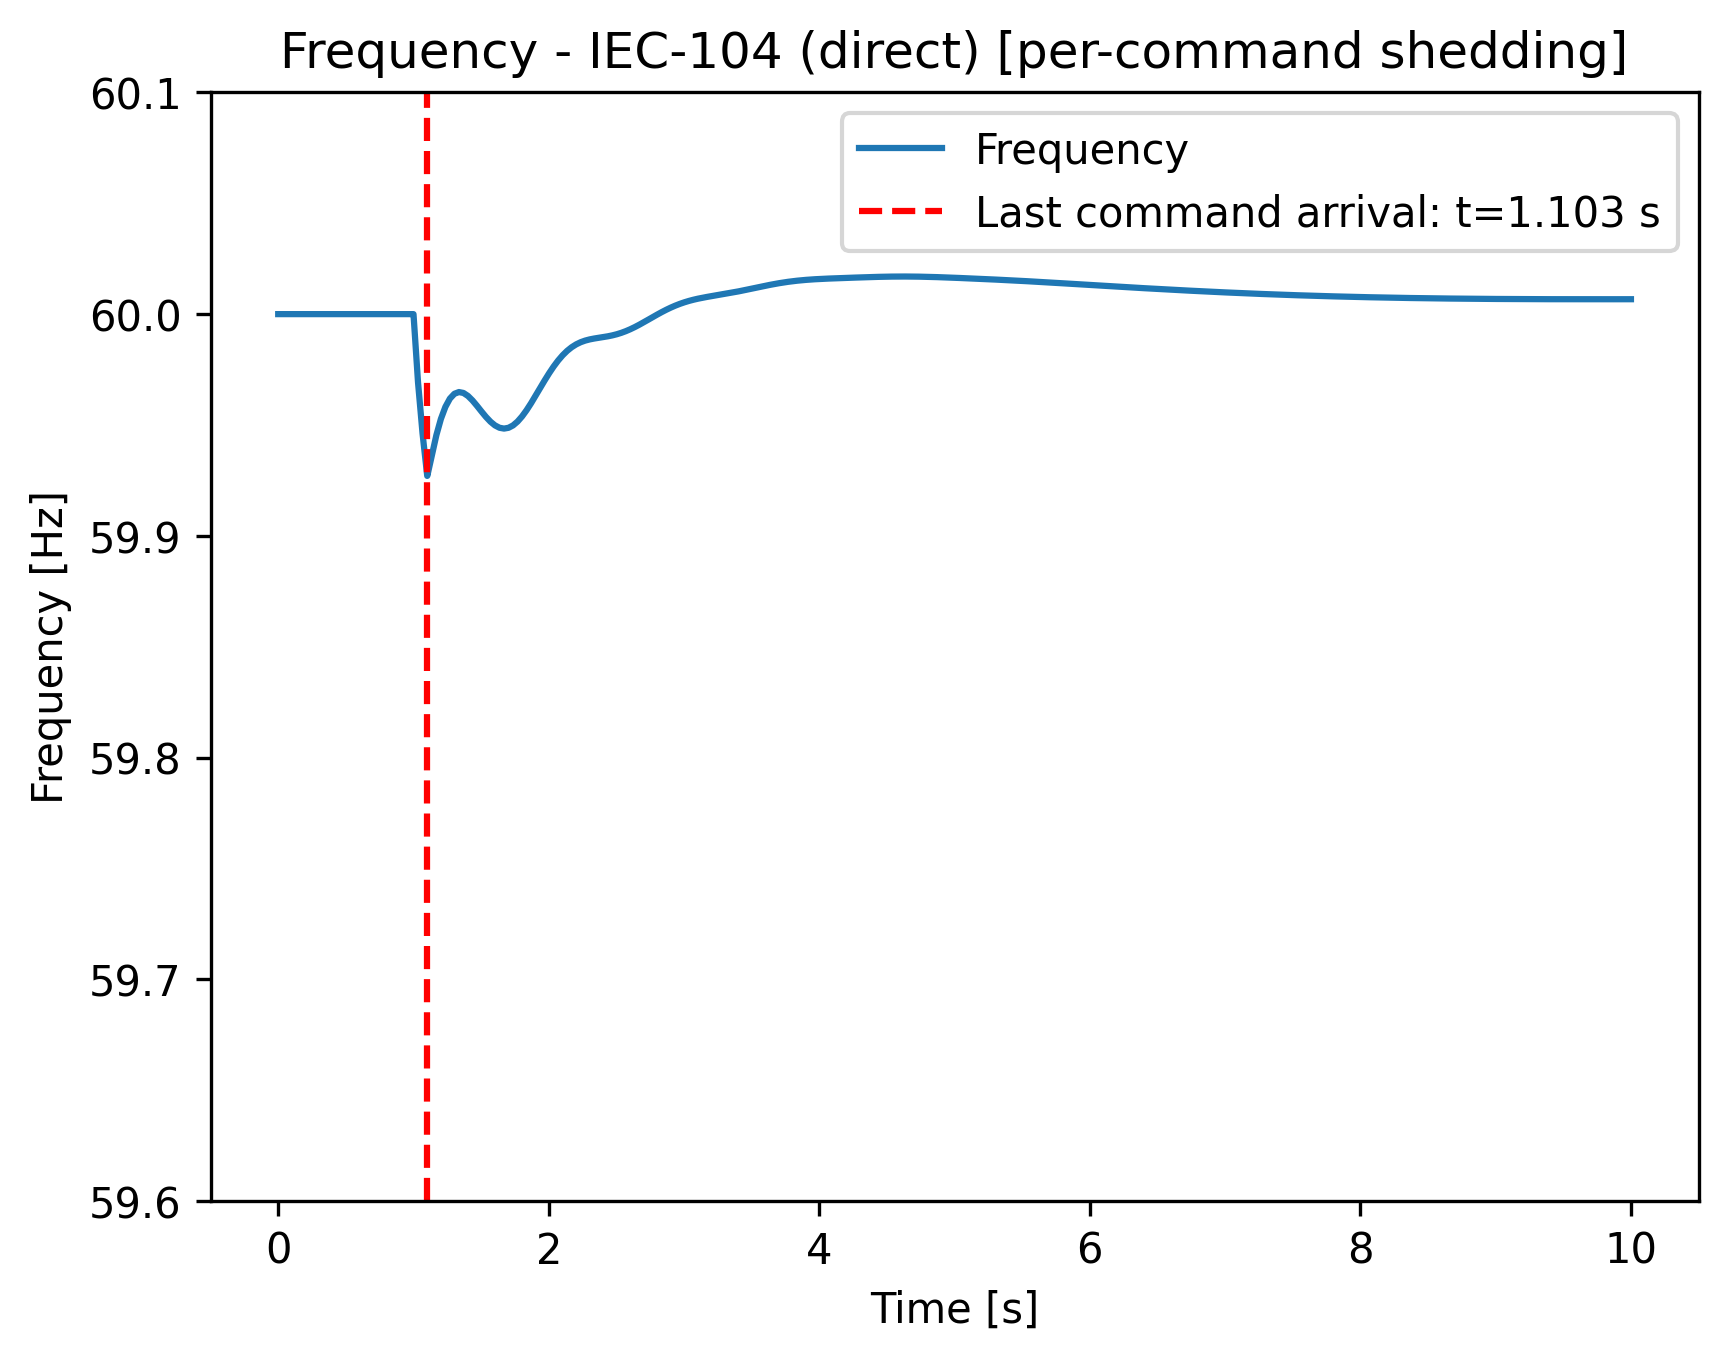
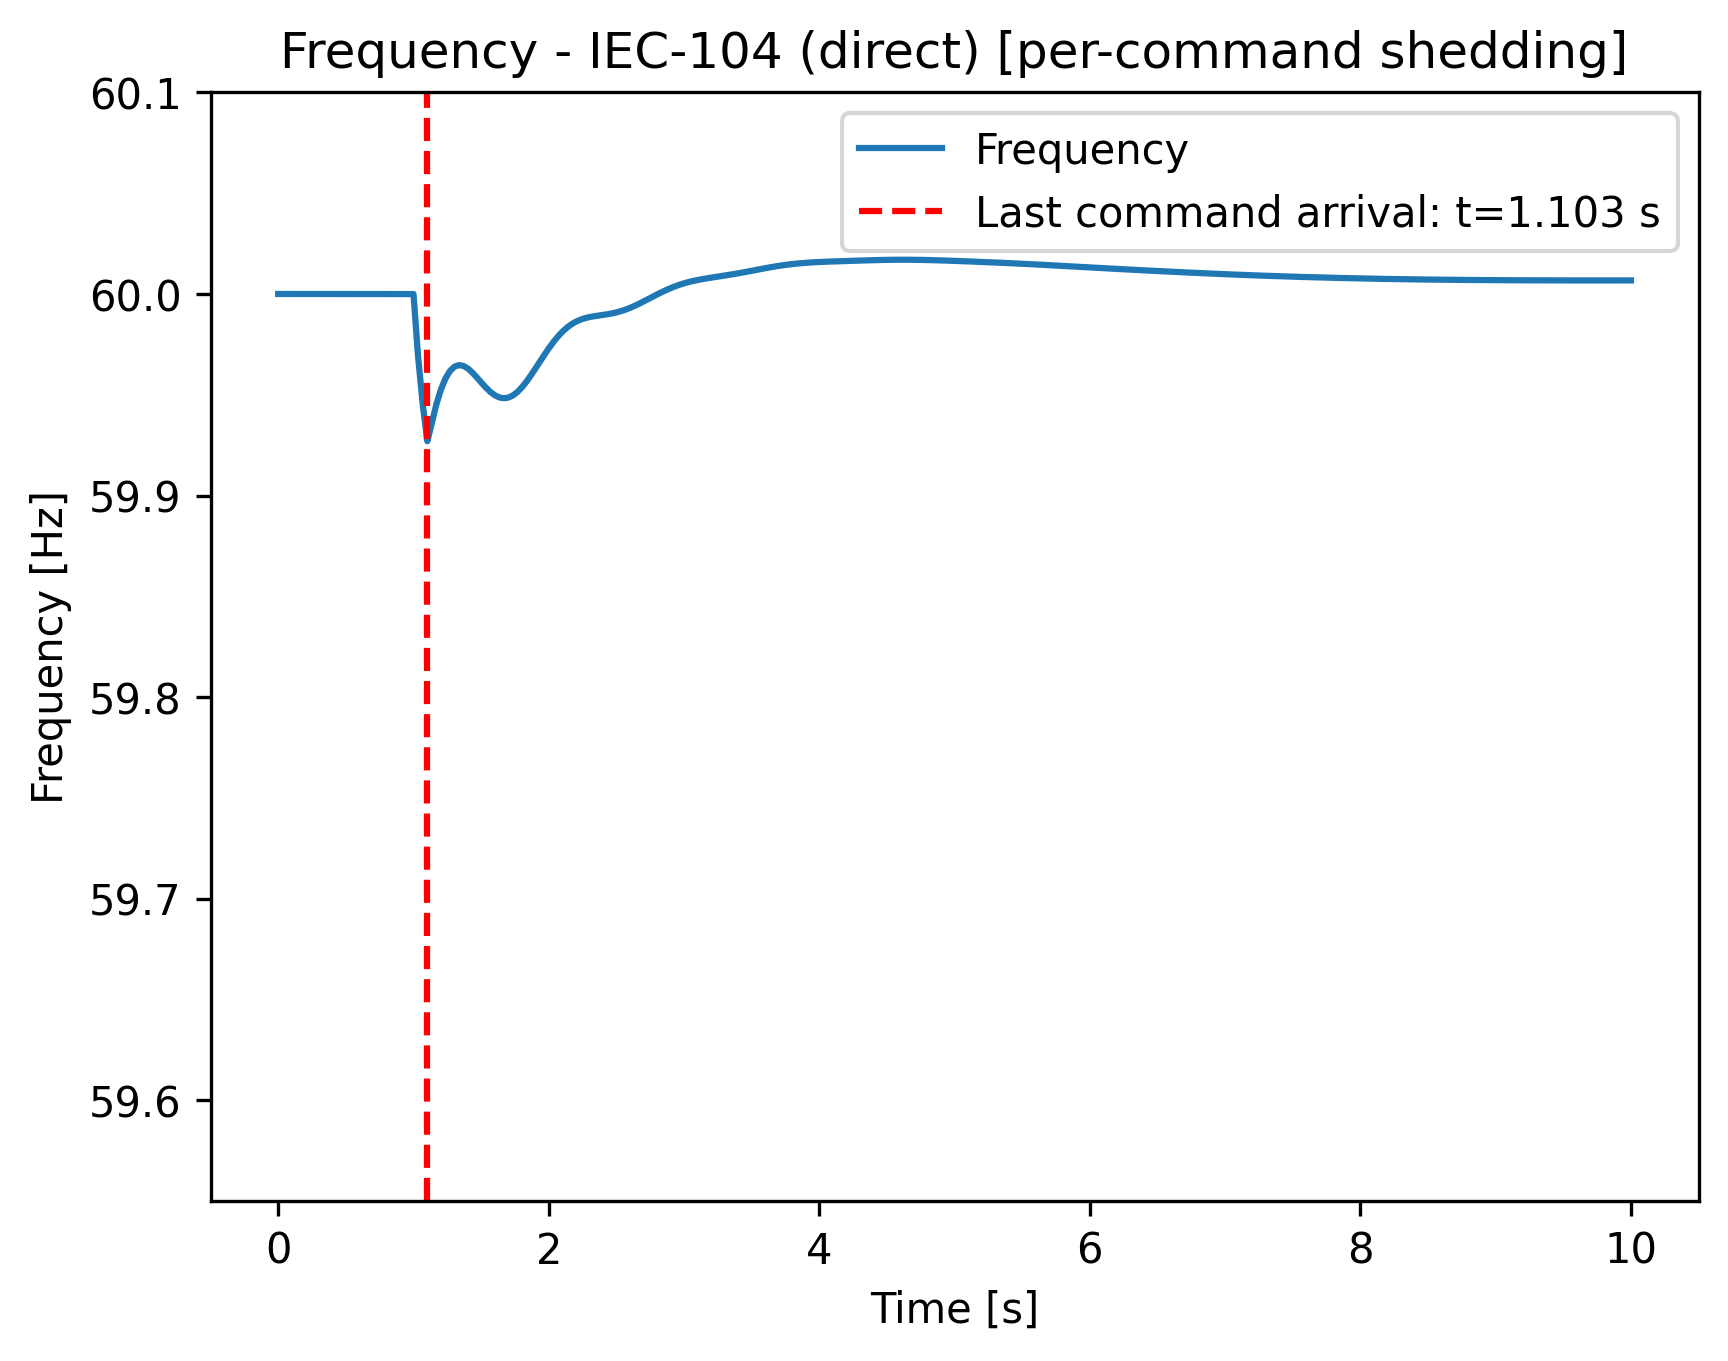
Implemented MITM command drop strategy

diff --git a/system_RT_iec104.py b/system_RT_iec104.py
@@ -68,7 +68,7 @@ IOA_PPF_BASE = 10000
 IOA_SHED_BASE = 20000
 
 # y limits for frequency plots
-FREQ_Y_LIMS = (59.6, 60.1)
+FREQ_Y_LIMS = (59.55, 60.1)
 
 
 def build_info_system():
@@ -294,6 +294,16 @@ def _parse_args() -> argparse.Namespace:
             "per_command: apply each bus's shed delta at its own command-arrival time."
         ),
     )
+    parser.add_argument(
+        "--mitm-mode",
+        choices=["delay", "drop"],
+        default=os.environ.get("IEC104_MITM_MODE", "delay"),
+        help=(
+            "If --scenario mitm, how to simulate the MITM behavior. "
+            "delay: add a delay to all commands. "
+            "drop: randomly drop some commands with a given probability."
+        )
+    )
     return parser.parse_args()
 
 
@@ -322,6 +332,8 @@ def main():
     received_shed_time_by_bus: dict[int, float] = {}
     all_received = threading.Event()
     start_received = threading.Event()
+
+    allow_partial_commands = bool(args.scenario == "mitm" and args.mitm_mode == "drop")
 
     # Set once the measurement snapshot is successfully transmitted.
     tx_t0: dict[str, float | None] = {"t0": None}
@@ -424,7 +436,8 @@ def main():
 
     if not all_received.wait(timeout=20.0):
         # In per_command mode we can still proceed with partial commands.
-        if args.shed_mode == "all_at_once":
+        # In MITM drop mode, commands may never arrive: proceed with whatever we got.
+        if args.shed_mode == "all_at_once" and not allow_partial_commands:
             server.stop()
             raise TimeoutError("Did not receive all shed commands within 20s")
         print(
@@ -432,9 +445,14 @@ def main():
             flush=True,
         )
 
-    if not received_shed_by_bus:
+    if not received_shed_by_bus and not allow_partial_commands:
         server.stop()
         raise TimeoutError("Did not receive any shed commands")
+    elif not received_shed_by_bus and allow_partial_commands:
+        print(
+            "[iec104-system] WARNING: no shed commands received (MITM drop mode); proceeding with no shedding applied",
+            flush=True,
+        )
 
     # Stop comms before running the offline simulation.
     server.stop()
@@ -447,19 +465,38 @@ def main():
         # For consistency with per_command mode, measure delay as:
         #   (timestamp of last received command) - (timestamp of measurement transmit).
         # This avoids including extra overhead (thread wake-up, server.stop(), scheduling jitter).
-        t_last_rx = max(float(v) for v in received_shed_time_by_bus.values())
-        delay = max(0.0, float(t_last_rx) - float(t0_tx))
+        if received_shed_time_by_bus:
+            t_last_rx = max(float(v) for v in received_shed_time_by_bus.values())
+            delay = max(0.0, float(t_last_rx) - float(t0_tx))
+        else:
+            delay = 0.0
         t_shed = t_trip + float(delay)
 
         shed_dict: dict = {}
-        for bus in expected_buses:
-            pq_id = pq_by_bus[bus]
-            shed_dict[pq_id] = float(received_shed_by_bus[bus])
+        for bus, shed_amt in received_shed_by_bus.items():
+            if int(bus) not in pq_by_bus:
+                continue
+            pq_id = pq_by_bus[int(bus)]
+            shed_dict[pq_id] = float(shed_amt)
 
-        print(f"[iec104-system] received all commands; delay={delay:.6f} s; t_shed={t_shed:.6f} s")
+        if len(received_shed_by_bus) == len(expected_buses):
+            print(f"[iec104-system] received all commands; delay={delay:.6f} s; t_shed={t_shed:.6f} s")
+        else:
+            print(
+                f"[iec104-system] received {len(received_shed_by_bus)}/{len(expected_buses)} commands; "
+                f"delay(last received)={delay:.6f} s; t_shed={t_shed:.6f} s",
+                flush=True,
+            )
 
-        ss = build_system(t_shed=t_shed, shed_dict=shed_dict)
-        run_two_stage_tds(ss)
+        if shed_dict:
+            ss = build_system(t_shed=t_shed, shed_dict=shed_dict)
+            run_two_stage_tds(ss)
+        else:
+            # No commands => run only the trip event.
+            ss = build_base_system()
+            ss.TDS.config.criteria = 0
+            ss.TDS.config.tf = t_final
+            ss.TDS.run()
         t_arr, f_arr = extract_time_and_freq(ss)
         measured_delay = float(delay)
         per_bus_delays = None
@@ -535,15 +572,17 @@ def main():
         t_arr, f_arr = extract_time_and_freq(ss)
 
     shed_tag = "percmd" if args.shed_mode == "per_command" else "all"
+    mitm_mode_tag = args.mitm_mode if args.scenario == "mitm" else "direct"
 
     if args.scenario == "direct":
         title = "Frequency - IEC-104 (direct)"
         png_name = f"freq_iec104_direct_{shed_tag}.png"
         npz_name = f"case_iec104_direct_{shed_tag}.npz"
     else:
-        title = "Frequency - IEC-104 (MITM)"
-        png_name = f"freq_iec104_mitm_{shed_tag}.png"
-        npz_name = f"case_iec104_mitm_{shed_tag}.npz"
+        if args.mitm_mode == "delay" or args.mitm_mode == "drop":
+            title = f"Frequency - IEC-104 (MITM - {mitm_mode_tag})"
+            png_name = f"freq_iec104_mitm_{mitm_mode_tag}_{shed_tag}.png"
+            npz_name = f"case_iec104_mitm_{mitm_mode_tag}_{shed_tag}.npz"
 
     if args.shed_mode == "per_command":
         title = title + " [per-command shedding]"

diff --git a/mitm_proxy_iec104.py b/mitm_proxy_iec104.py
@@ -17,7 +17,8 @@ This proxy is tailored to the IOA mapping used by system_RT_iec104.py:
 
 Run example (3 terminals):
 - Outstation:  .venv/bin/python system_RT_iec104.py
-- MITM:       .venv/bin/python mitm_proxy_iec104_delay.py --listen-port 2405 --upstream-port 2404 --shed-delay 0.20
+- MITM (delay): .venv/bin/python mitm_proxy_iec104_delay.py --listen-port 2405 --upstream-port 2404 --shed-delay 0.20
+- MITM (drop): .venv/bin/python mitm_proxy_iec104_delay.py --listen-port 2405 --upstream-port 2404 --drop-command-prob 0.5 --seed 98
 - Controller: IEC104_PORT=2405 .venv/bin/python controller_iec104_master.py
 """
 
@@ -64,6 +65,12 @@ def main() -> None:
         help="upper bound for per-packet random delay (seconds)",
     )
     ap.add_argument(
+        "--command-drop-prob",
+        type=float,        
+        default=0.0,
+        help="probability [0.0-1.0] of randomly dropping a shed command packet instead of forwarding",
+    )
+    ap.add_argument(
         "--seed",
         type=int,
         default=None,
@@ -80,7 +87,8 @@ def main() -> None:
     ca = int(args.ca)
 
     use_random_per_packet = (args.shed_delay_min is not None) and (args.shed_delay_max is not None)
-    rng = random.Random(args.seed) if use_random_per_packet else None
+    drop_packet_randomly = (args.command_drop_prob is not None) and (0.0 < args.command_drop_prob < 1.0)
+    rng = random.Random(args.seed) if use_random_per_packet or drop_packet_randomly else None
 
     t0 = time.monotonic()
 
@@ -443,6 +451,15 @@ def main() -> None:
                 with cmd_lock:
                     delay_s = _sample_shed_delay()
                 _forward_one_shed(int(ioa), float(value), float(delay_s))
+            elif drop_packet_randomly:
+                # Randomly drop the packet instead of forwarding.
+                if rng.random() < float(args.command_drop_prob):
+                    log(f"DROPPED shed command ioa={ioa} value={float(value)}")
+                else:
+                    log(f"FORWARDING shed command ioa={ioa} value={float(value)} (not dropped)")
+                    with cmd_lock:
+                        delay_s = _sample_shed_delay()
+                    _forward_one_shed(int(ioa), float(value), float(delay_s))
             else:
                 # Legacy: buffer and flush once after fixed --shed-delay.
                 nonlocal flush_timer

diff --git a/README.md b/README.md
@@ -12,7 +12,7 @@ Scripts:
 
 Outputs:
 - Plots: `plots/freq_local.png`, `plots/freq_direct.png`, `plots/freq_proxy.png`
-- Data (ignored by git): `case_local.npz`, `case_direct.npz`, `case_proxy.npz`
+- Data: `results/case_local.npz`, `results/case_direct.npz`, `results/case_proxy.npz`
 
 ## IEC 60870-5-104 variant (c104)
 
@@ -21,7 +21,7 @@ This repo includes an IEC-104 version of the same “measure delay → apply loa
 Scripts:
 - [system_RT_iec104.py](system_RT_iec104.py): runs the ANDES simulation and hosts an IEC-104 outstation (server).
 - [controller_iec104_master.py](controller_iec104_master.py): IEC-104 master (client) that computes proportional shedding and sends setpoints.
-- [mitm_proxy_iec104_delay.py](mitm_proxy_iec104_delay.py): IEC-104-aware MITM bridge that can delay only the shedding commands.
+- [mitm_proxy_iec104.py](mitm_proxy_iec104.py): IEC-104-aware MITM bridge that can delay or drop only the shedding commands.
 
 Shedding application modes (outstation):
 - Default: `--shed-mode all_at_once` applies all shed deltas at `t_trip + delay(last command)`.
@@ -48,8 +48,8 @@ To inject extra network delay into IEC-104, run an IEC-104-aware MITM bridge (it
 
 Run (three terminals):
 - Terminal A (outstation): `.venv/bin/python system_RT_iec104.py --scenario mitm` (listens on `127.0.0.1:2404`)
-- Terminal B (MITM proxy, fixed delay): `.venv/bin/python mitm_proxy_iec104_delay.py --listen-port 2405 --upstream-port 2404 --shed-delay 0.20`
-- Terminal B (MITM proxy, random per-packet delay): `.venv/bin/python mitm_proxy_iec104_delay.py --listen-port 2405 --upstream-port 2404 --shed-delay-min 0.05 --shed-delay-max 0.45 --seed 98`
+- Terminal B (MITM proxy, fixed delay): `.venv/bin/python mitm_proxy_iec104.py --listen-port 2405 --upstream-port 2404 --shed-delay 0.20`
+- Terminal B (MITM proxy, random per-packet delay): `.venv/bin/python mitm_proxy_iec104.py --listen-port 2405 --upstream-port 2404 --shed-delay-min 0.05 --shed-delay-max 0.45 --seed 98`
 - Terminal C (controller via proxy): `.venv/bin/python controller_iec104_master.py --scenario mitm` (defaults to port `2405`)
 
 Notes:
@@ -59,5 +59,19 @@ Notes:
 
 Outputs:
 - Plots (direct): `plots/freq_iec104_direct_all.png` or `plots/freq_iec104_direct_percmd.png`
-- Plots (MITM): `plots/freq_iec104_mitm_all.png` or `plots/freq_iec104_mitm_percmd.png`
-- Data (ignored by git): `case_iec104_*.npz`
+- Plots (MITM): `plots/freq_iec104_mitm_<mode>_all.png` or `plots/freq_iec104_mitm_<mode>_percmd.png`
+- Data: `results/case_iec104_*.npz`
+
+### MITM proxy with drop
+
+This mode randomly drops *shed command* packets in the MITM proxy (monitoring values are still forwarded).
+
+Run (three terminals):
+- Terminal A (outstation + simulation): `.venv/bin/python system_RT_iec104.py --scenario mitm --mitm-mode drop`
+- Terminal B (MITM proxy, dropping commands): `.venv/bin/python mitm_proxy_iec104.py --listen-port 2405 --upstream-port 2404 --command-drop-prob 0.4 --seed 98`
+- Terminal C (controller via proxy): `.venv/bin/python controller_iec104_master.py --scenario mitm`
+
+Outstation behavior in `drop` mode:
+- The outstation waits up to 20s for commands, then applies whatever commands arrived by the timeout.
+- Missing (dropped) commands are treated as “no shedding” for those buses.
+- If no commands arrive, it still runs the trip-only simulation (no shedding applied).
